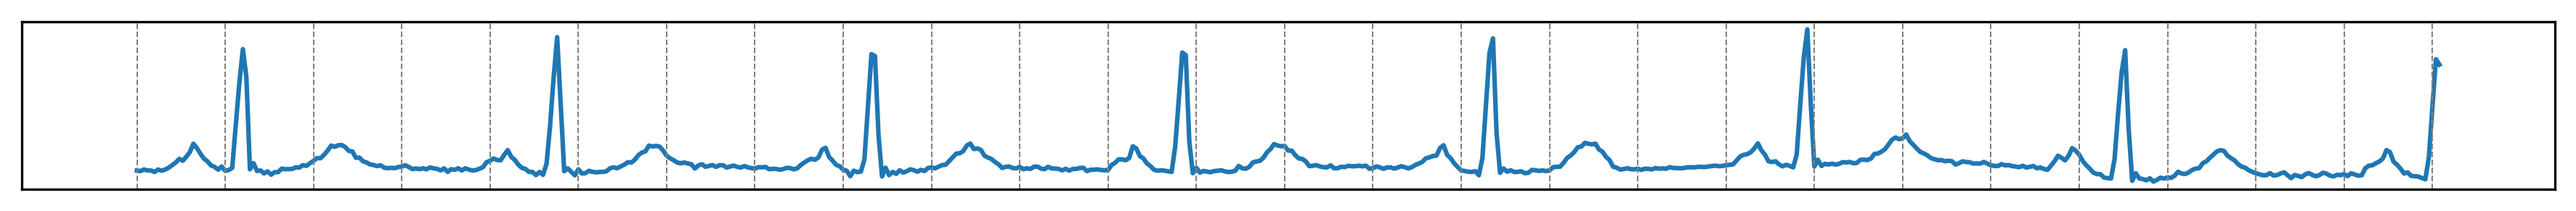
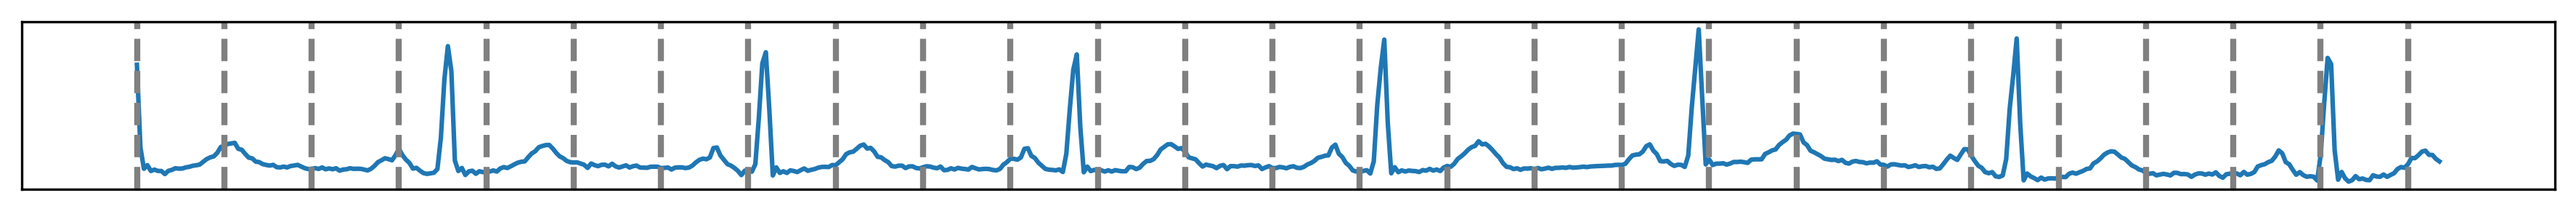
wip

Changed region(s): [[0.031, 0.1546, 0.9614, 0.866], [0.062, 0.2165, 0.124, 0.4639], [0.062, 0.4948, 0.124, 0.5876]]

diff --git a/models/xLSTM.py b/models/xLSTM.py
@@ -97,6 +97,11 @@ class pretrainedxLSTM(nn.Module):
         elif self.cls_type == 'token':
             cls = out[:, -1, :]
             out = out[:, :-1, :]
+        elif self.cls_type == 'token_2':
+            cls_1 = out[:, 0, :]
+            cls_2 = out[:, -1, :]
+            out = out[:, 1:-1, :]
+            cls = cls_1 + cls_2
         elif self.cls_type == 'attn_pool' or self.cls_type == 'lin_attn_pool':
             if padding_mask is None:
                 cls = self.attn_pool(out).squeeze()
@@ -108,6 +113,9 @@ class pretrainedxLSTM(nn.Module):
         # add the [cls] and [reg] tokens
         if self.cls_type == 'token':
             x = self.add_cls_token(x)
+        elif self.cls_type == 'token_2':
+            x = self.add_cls_token_2(x)
+            
         if self.num_reg_tokens > 0:
             x = self.add_reg_tokens(x)
 
@@ -170,6 +178,11 @@ class pretrainedxLSTM(nn.Module):
     def add_cls_token(self, x):
         cls_token = self.cls_token.expand(x.shape[0], -1, -1)
         return torch.cat([cls_token, x], dim=1)
+    
+    def add_cls_token_2(self, x):
+        cls_token_1 = self.cls_token.expand(x.shape[0], -1, -1)
+        cls_token_2 = self.cls_token.expand(x.shape[0], -1, -1)
+        return torch.cat([cls_token_1, x, cls_token_2], dim=1)
     
     def get_padding_mask(self, x):
         padding_mask = (x.abs().sum(dim=-1) == 0).unsqueeze(-1)
